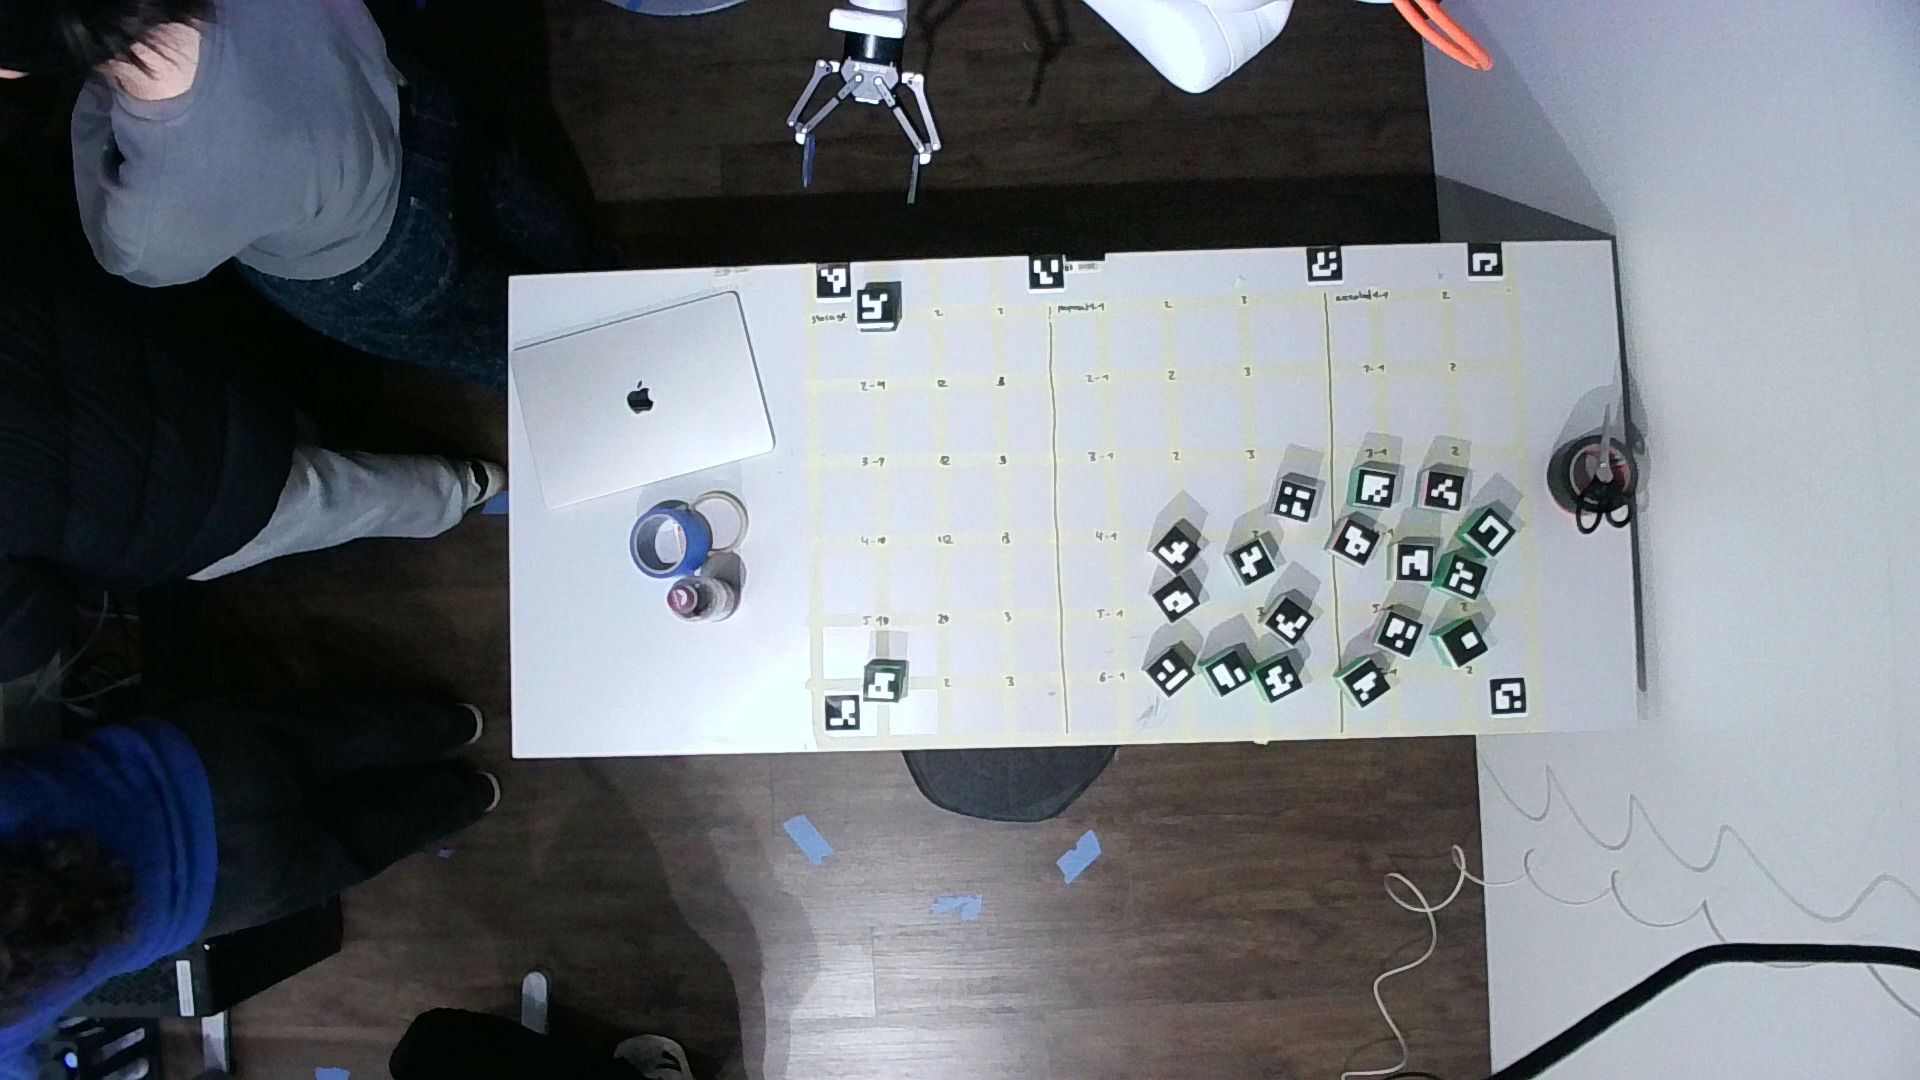
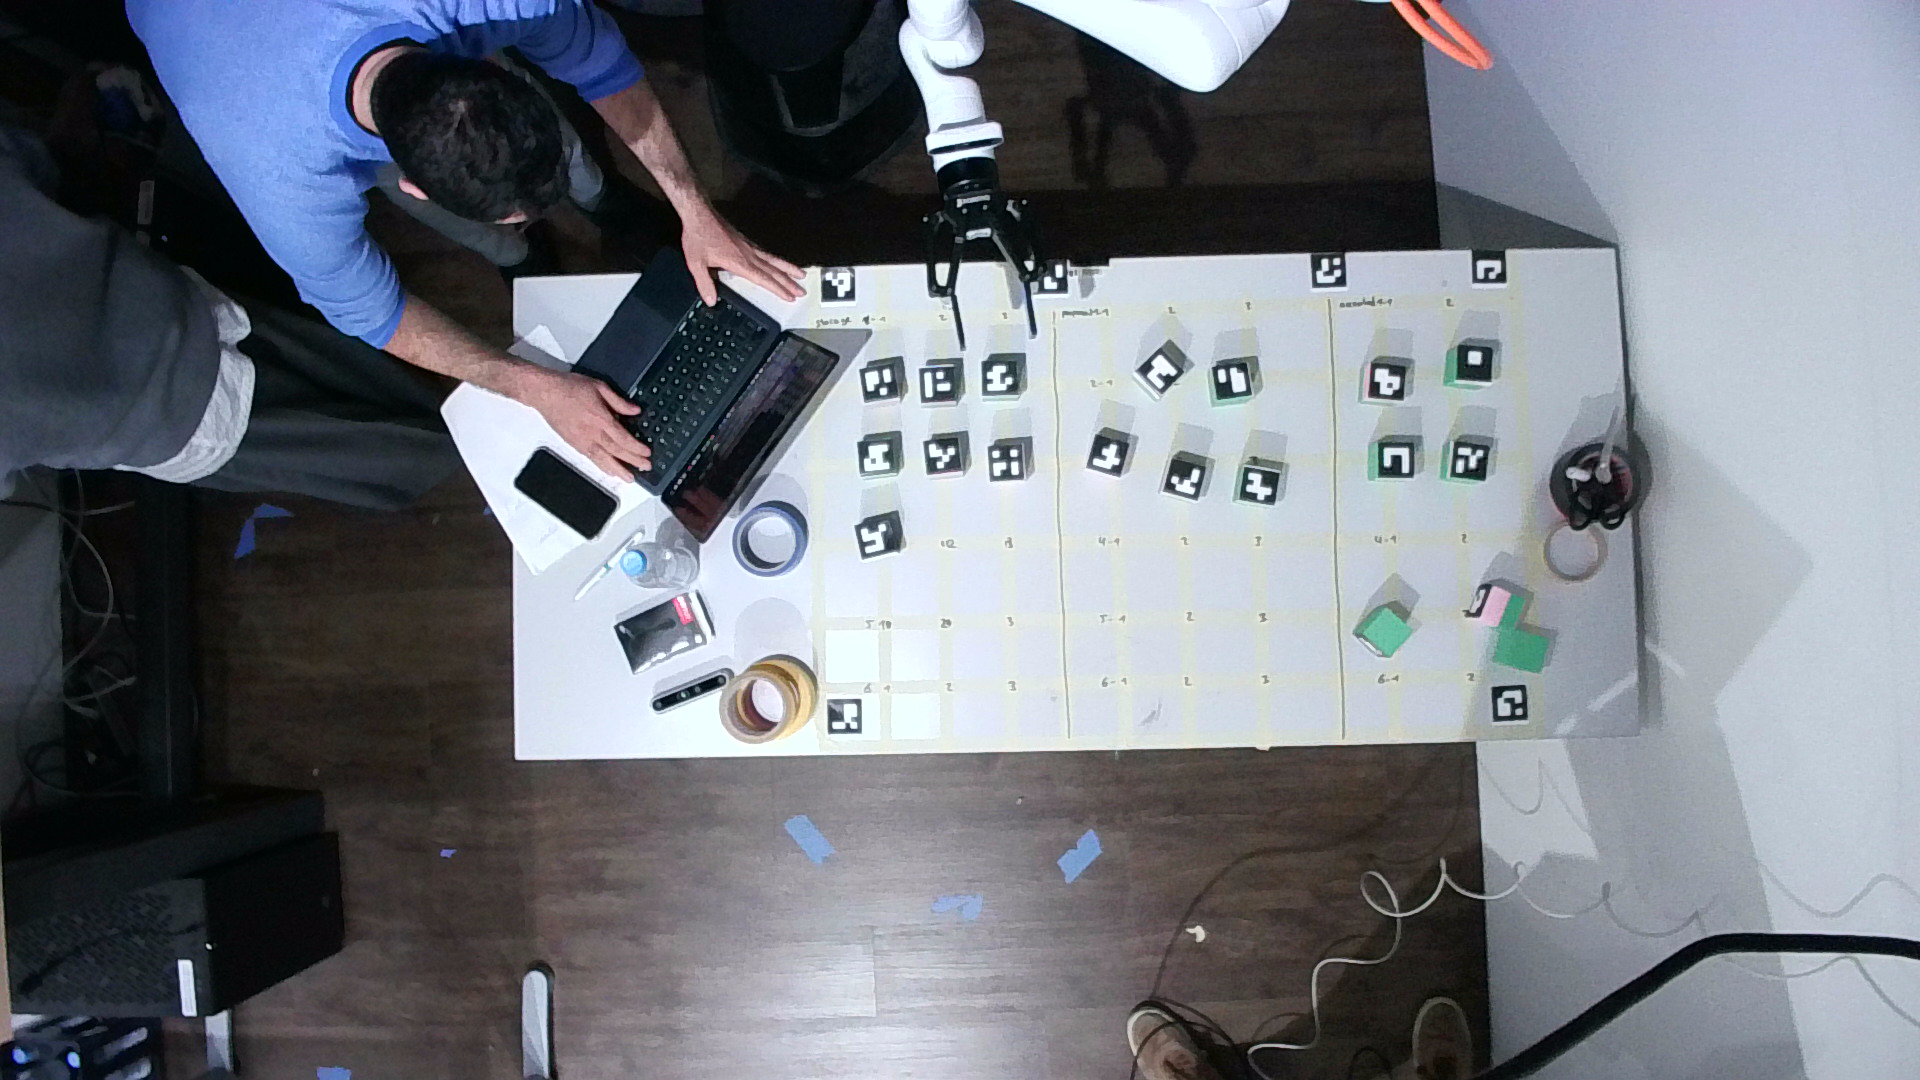
mocking perception

diff --git a/collarobot_perception/collarobot_perception/state_detection.py b/collarobot_perception/collarobot_perception/state_detection.py
@@ -1,5 +1,6 @@
 import json
 from pathlib import Path
+import threading
 
 import rclpy
 from rclpy.node import Node
@@ -24,20 +25,87 @@ class StatePublisher(Node):
 
     def __init__(self):
         super().__init__('state_publisher')
+
+        self.debug = True
+
+        self.storage = set(range(10))   # objects 0–9 start in storage
+        self.proposed = set()
+        self.accepted = set()
+
+        self.state_lock = threading.Lock()
+
         self.publisher_ = self.create_publisher(String, 'collarobot/state', 10)
         timer_period = 0.5
         self.timer = self.create_timer(timer_period, self.timer_callback)
 
+        self.cli_thread = threading.Thread(target=self.cli_loop, daemon=True)
+        self.cli_thread.start()
+
+        self.get_logger().info("Mock PublishState node started.")
+
     def timer_callback(self):
         msg = String()
 
-        try:
+        if self.debug:
+            with self.state_lock:
+                state = {
+                    "storage": list(self.storage),
+                    "proposed": list(self.proposed),
+                    "accepted": list(self.accepted),
+                    "relative_positions": {}
+                }
+        else:
             state = capture_and_detect()
+
+        try:
             msg.data = json.dumps(state, indent=4)
             self.publisher_.publish(msg)
             self.get_logger().info('Publishing: "%s"' % msg.data)
         except Exception as e:
             self.get_logger().error(f"Failed to get/publish state: {e}")
+    
+    def cli_loop(self):
+        while True:
+            try:
+                user_input = input("Move object with format (object_id,target_list): ")
+
+                if not user_input.startswith("(") or not user_input.endswith(")"):
+                    print("Invalid format. Example: (9,1)")
+                    continue
+
+                obj_id, target = map(int, user_input[1:-1].split(","))
+
+                self.move_object(obj_id, target)
+
+            except Exception as e:
+                print(f"Error: {e}")
+
+    def move_object(self, obj_id: int, target: int):
+        """
+        target:
+            0 = storage
+            1 = proposed
+            2 = accepted
+        """
+        with self.state_lock:
+
+            # Remove object from all sets
+            self.storage.discard(obj_id)
+            self.proposed.discard(obj_id)
+            self.accepted.discard(obj_id)
+
+            # Add to target
+            if target == 0:
+                self.storage.add(obj_id)
+            elif target == 1:
+                self.proposed.add(obj_id)
+            elif target == 2:
+                self.accepted.add(obj_id)
+            else:
+                print("Invalid target list. Use 0, 1 or 2.")
+                return
+
+        print(f"Moved object {obj_id} to list {target}")
 
 
 def main(args=None):

diff --git a/collarobot_perception/collarobot_perception/take_image.py b/collarobot_perception/collarobot_perception/take_image.py
@@ -1,4 +1,5 @@
 import cv2
+import time
 import atexit
 
 # Initialize camera at import time so it can autofocus
@@ -6,6 +7,9 @@ _cap = cv2.VideoCapture(0, cv2.CAP_DSHOW)
 _cap.set(cv2.CAP_PROP_FRAME_WIDTH, 1920)
 _cap.set(cv2.CAP_PROP_FRAME_HEIGHT, 1080)
 _cap.set(cv2.CAP_PROP_FOURCC, cv2.VideoWriter_fourcc(*'MJPG'))
+_cap.set(cv2.CAP_PROP_AUTOFOCUS, 1)           # Enable autofocus
+_cap.set(cv2.CAP_PROP_AUTO_EXPOSURE, 3)        # Auto exposure mode
+_cap.set(cv2.CAP_PROP_BUFFERSIZE, 1)           # Minimal buffer = freshest frame
 
 
 def _release_camera():
@@ -19,11 +23,17 @@ atexit.register(_release_camera)
 def capture_frame():
     """
     Captures a single frame from the already-open camera.
+    Flushes warmup frames to let auto-exposure/autofocus settle.
     Returns:
         frame: The captured frame (BGR) or None if capture failed.
     """
     if not _cap.isOpened():
         return None
+
+    # Flush warmup frames so auto-exposure and autofocus converge
+    for _ in range(10):
+        _cap.read()
+    time.sleep(0.3)
 
     ret, frame = _cap.read()
     if ret:
@@ -32,9 +42,7 @@ def capture_frame():
 
 
 if __name__ == "__main__":
-    import time
-    # Give camera a moment to autofocus
-    time.sleep(5)
+    time.sleep(3)
     frame = capture_frame()
     if frame is not None:
         cv2.imwrite("captured_test_2.png", frame)
